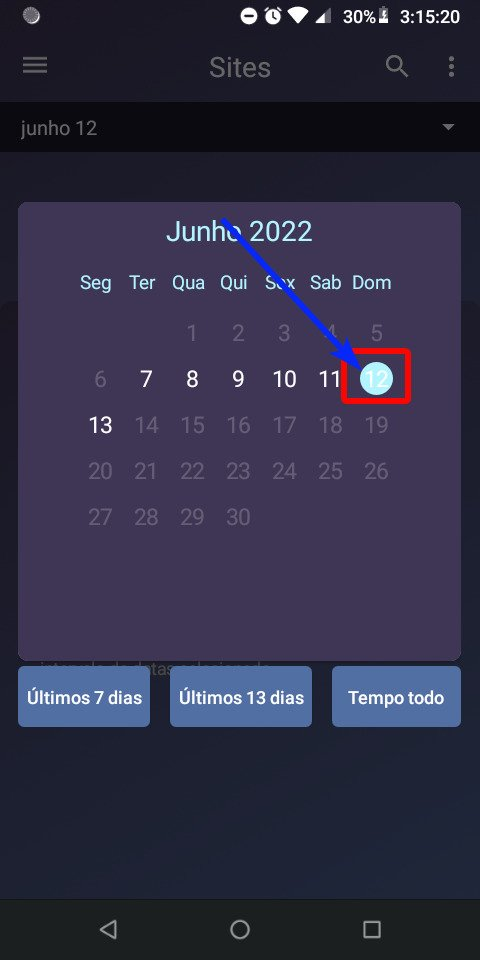
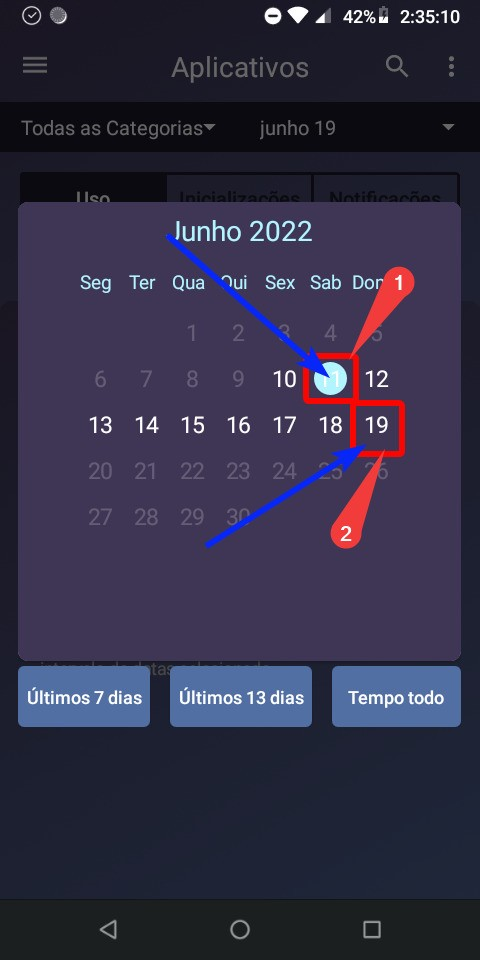
form2

diff --git a/index.html b/index.html
@@ -5,7 +5,6 @@
 		<meta charset="utf-8" />
 		<meta name="viewport" content="width=device-width, initial-scale=1, user-scalable=no" />
 		<link rel="stylesheet" href="assets/css/main.css" />
-		<script src="https://unpkg.com/@botpoison/browser" async></script>
 		<noscript><link rel="stylesheet" href="assets/css/noscript.css" /></noscript>
 	</head>
 	<body class="is-preload">
@@ -196,36 +195,56 @@
 								<span class="image fit"><img src="images/stayfree/2.jpg"/></span>
 								<p>Depois disso, clique em intervalo de data</p>
 								<span class="image fit"><img src="images/stayfree/3.jpg"/></span>
-								<p>E selecione <strong>12 de junho</strong>. Talvez seja necessário clicar duas vezes na data.</p>
+								<p>E selecione <strong>11 de junho</strong> e depois <strong>19 de junho</strong>.</p>
 								<span class="image fit"><img src="images/stayfree/4.jpg"/></span>
-								<p>Então, confira se a data está como <strong>12 de junho</strong>, e depois clique em &nbsp; <span class="icon solid fa-check"></span></p>
+								<p>Se a data está como <strong>11 de junho a 19 de junho</strong>, clique em &nbsp; <span class="icon solid fa-check"></span> &nbsp;  para exportar o relatório.</p>
 								<span class="image fit"><img src="images/stayfree/5.jpg"/></span>
 								<p>Após isso, irá aparecer uma tela para salvar o arquivo, escolha uma pasta fácil de lembrar, como a de Download.<br>
 								Então clique em <strong>Salvar</strong>.</p>
 								<span class="image fit"><img src="images/stayfree/6.jpg"/></span>
+								<p>Se a seguinte mensagem aparecer, o relatório foi exportado com sucesso!</p>
+								<span class="image fit"><img src="images/stayfree/7.jpg"/></span>
 
+								<h3 class="major">Enviar relatório</h3>
 								
-								<!--<form method="post" action="https://formspree.io/f/meqndkyd">
+								<form method="post" action="https://formspree.io/f/meqndkyd">
 									<div class="fields">
-										<div class="field half">
-											<label for="name">Nome</label>
-											<input type="text" name="name" id="name" required/>
-										</div>
-										<div class="field half">
-											<label for="email">Email</label>
-											<input type="email" name="email" id="email" required/>
-										</div>
 										<div class="field">
-											<label for="message">Mensagem</label>
-											<textarea name="message" id="message" rows="4" required></textarea>
+											<label for="b64" class="button primary icon solid fa-file-arrow-up">Enviar seu arquivo</label>
+											<input type="file" name="b64" id="b64" accept=".xls, application/vnd.ms-excel" required hidden/>
+											<input type="hidden" name="arquivobase64" id="arquivobase64" required/>
 										</div>
 									</div>
 									<ul class="actions">
-										<li><input type="submit" value="Enviar mensagem" class="primary" /></li>
+										<li><button id="uploadb64" class="button primary icon solid fa-upload">Enviar</button></li>
 										<li><input type="reset" value="Limpar" /></li>
 									</ul>
-								</form>-->
-								
+								</form>
+								<script>
+									var d = String;
+									document.getElementById('b64').addEventListener('change', function() {
+									  var file = document.getElementById('b64').files[0];
+									  if (file.size > 1 && file.type == "application/vnd.ms-excel") {
+									  getBase64(file);
+									  } else {
+										alert("Arquivo inválido!\nVerifique se é uma planilha do Excel.");
+										document.getElementById('b64').value = "";
+									  }
+									});
+
+									function getBase64(file) {
+										var reader = new FileReader();
+										reader.readAsDataURL(file);
+										reader.onload = function () {
+									 	d = reader.result;
+										document.getElementById('arquivobase64').value = d;
+									  	};
+									  reader.onerror = function (error) {
+										 console.log('Error: ', error);
+										 alert(error)
+									   };
+									}
+								</script>
 								</article>
 						
 					</div>
@@ -246,6 +265,5 @@
 			<script src="assets/js/breakpoints.min.js"></script>
 			<script src="assets/js/util.js"></script>
 			<script src="assets/js/main.js"></script>
-
 	</body>
 </html>
